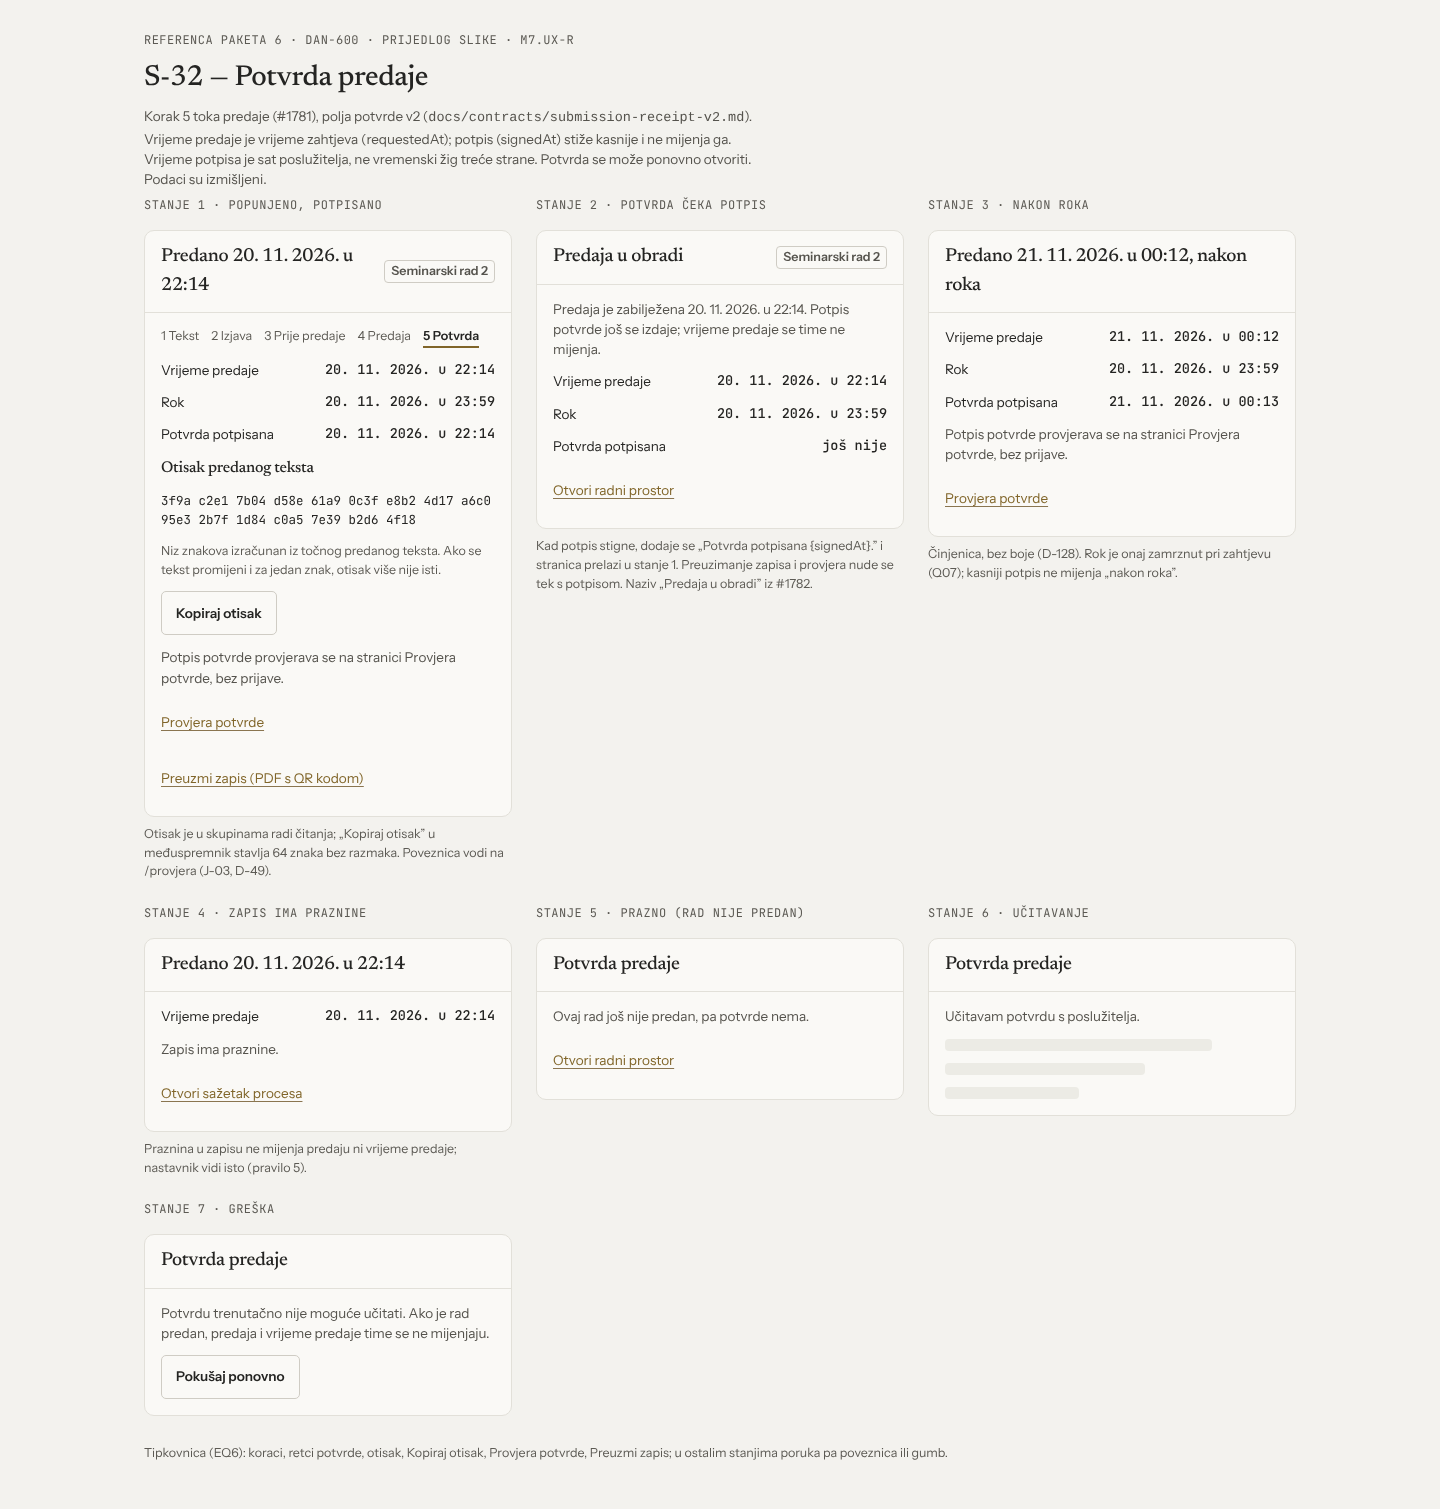
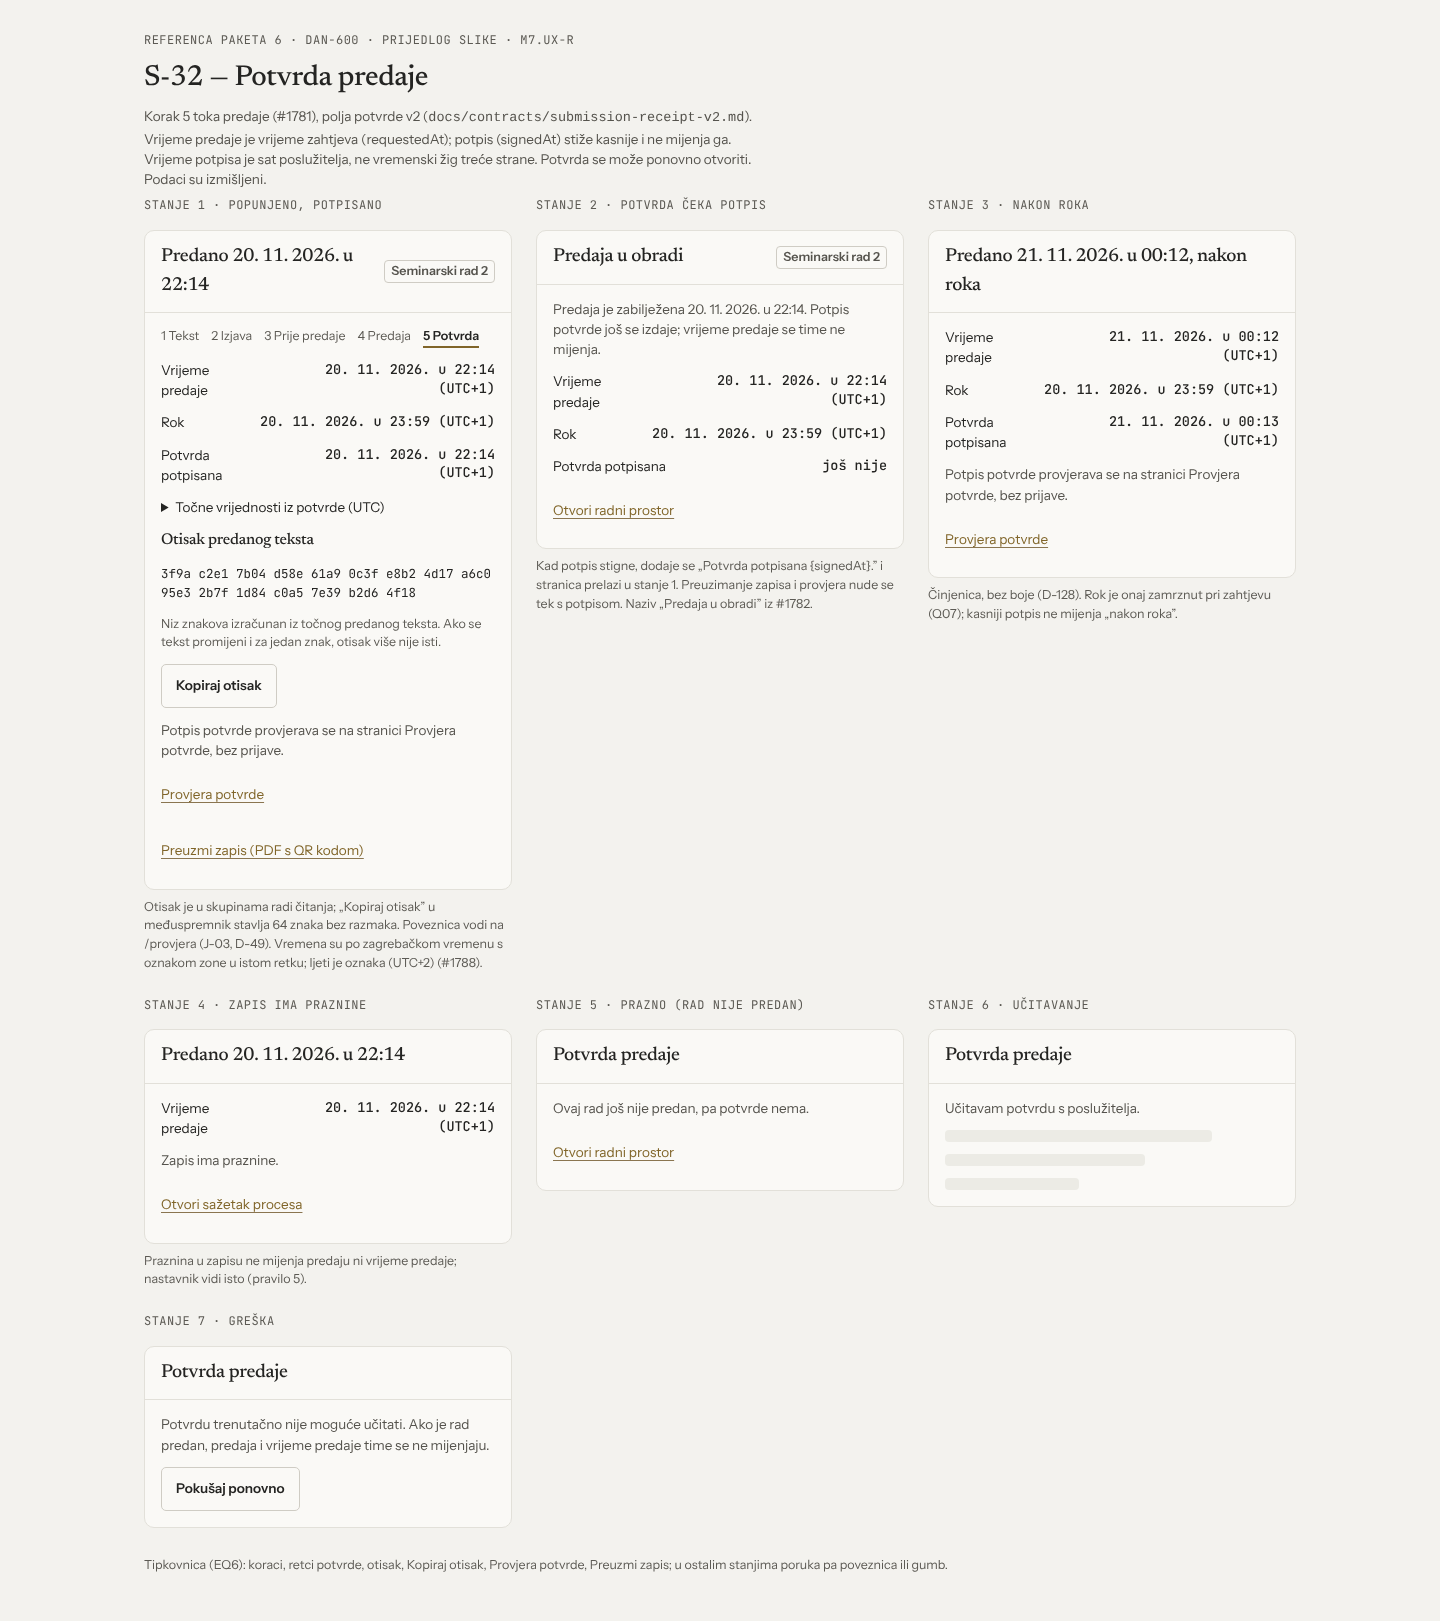
docs: m7 reference load error stays neutral, receipt times carry zone
S-30 load error no longer claims nothing was submitted (Codex). S-32
shows Zagreb time with a zone label and exact UTC values in details
(#1788, #1789); J-03 alignment stays open in the README.

Claude-Session: https://claude.ai/code/session_011GCKG9YKQ3fpNkYVrkXGih

diff --git a/docs/design/ductura/m7-reference/s32-potvrda-predaje.html b/docs/design/ductura/m7-reference/s32-potvrda-predaje.html
@@ -19,9 +19,10 @@
     <div class="panel"><div class="panel-top"><h2 id="p1">Predano 20. 11. 2026. u 22:14</h2><span class="tag">Seminarski rad 2</span></div>
       <div class="panel-body">
         <ol class="steps" aria-label="Koraci predaje"><li>1 Tekst</li><li>2 Izjava</li><li>3 Prije predaje</li><li>4 Predaja</li><li aria-current="step">5 Potvrda</li></ol>
-        <div class="kv"><span>Vrijeme predaje</span><b>20. 11. 2026. u 22:14</b></div>
-        <div class="kv"><span>Rok</span><b>20. 11. 2026. u 23:59</b></div>
-        <div class="kv"><span>Potvrda potpisana</span><b>20. 11. 2026. u 22:14</b></div>
+        <div class="kv"><span>Vrijeme predaje</span><b>20. 11. 2026. u 22:14 (UTC+1)</b></div>
+        <div class="kv"><span>Rok</span><b>20. 11. 2026. u 23:59 (UTC+1)</b></div>
+        <div class="kv"><span>Potvrda potpisana</span><b>20. 11. 2026. u 22:14 (UTC+1)</b></div>
+        <details><summary>Točne vrijednosti iz potvrde (UTC)</summary><p class="mono">requestedAt 2026-11-20T21:14:07Z<br>dueAt 2026-11-20T22:59:59Z<br>signedAt 2026-11-20T21:14:09Z</p></details>
         <h3>Otisak predanog teksta</h3>
         <p class="mono">3f9a c2e1 7b04 d58e 61a9 0c3f e8b2 4d17 a6c0 95e3 2b7f 1d84 c0a5 7e39 b2d6 4f18</p>
         <p class="meta">Niz znakova izračunan iz točnog predanog teksta. Ako se tekst promijeni i za jedan znak, otisak više nije isti.</p>
@@ -30,7 +31,7 @@
         <a href="#p1">Provjera potvrde</a>
         <a href="#p1">Preuzmi zapis (PDF s QR kodom)</a>
       </div></div>
-    <p class="meta">Otisak je u skupinama radi čitanja; „Kopiraj otisak” u međuspremnik stavlja 64 znaka bez razmaka. Poveznica vodi na /provjera (J-03, D-49).</p>
+    <p class="meta">Otisak je u skupinama radi čitanja; „Kopiraj otisak” u međuspremnik stavlja 64 znaka bez razmaka. Poveznica vodi na /provjera (J-03, D-49). Vremena su po zagrebačkom vremenu s oznakom zone u istom retku; ljeti je oznaka (UTC+2) (#1788).</p>
   </section>
 
   <section class="variant" aria-labelledby="p2">
@@ -38,8 +39,8 @@
     <div class="panel"><div class="panel-top"><h2 id="p2">Predaja u obradi</h2><span class="tag">Seminarski rad 2</span></div>
       <div class="panel-body">
         <p class="note" role="status">Predaja je zabilježena 20. 11. 2026. u 22:14. Potpis potvrde još se izdaje; vrijeme predaje se time ne mijenja.</p>
-        <div class="kv"><span>Vrijeme predaje</span><b>20. 11. 2026. u 22:14</b></div>
-        <div class="kv"><span>Rok</span><b>20. 11. 2026. u 23:59</b></div>
+        <div class="kv"><span>Vrijeme predaje</span><b>20. 11. 2026. u 22:14 (UTC+1)</b></div>
+        <div class="kv"><span>Rok</span><b>20. 11. 2026. u 23:59 (UTC+1)</b></div>
         <div class="kv"><span>Potvrda potpisana</span><b>još nije</b></div>
         <a href="#p2">Otvori radni prostor</a>
       </div></div>
@@ -50,9 +51,9 @@
     <div class="ref-tag">Stanje 3 · nakon roka</div>
     <div class="panel"><div class="panel-top"><h2 id="p3">Predano 21. 11. 2026. u 00:12, nakon roka</h2></div>
       <div class="panel-body">
-        <div class="kv"><span>Vrijeme predaje</span><b>21. 11. 2026. u 00:12</b></div>
-        <div class="kv"><span>Rok</span><b>20. 11. 2026. u 23:59</b></div>
-        <div class="kv"><span>Potvrda potpisana</span><b>21. 11. 2026. u 00:13</b></div>
+        <div class="kv"><span>Vrijeme predaje</span><b>21. 11. 2026. u 00:12 (UTC+1)</b></div>
+        <div class="kv"><span>Rok</span><b>20. 11. 2026. u 23:59 (UTC+1)</b></div>
+        <div class="kv"><span>Potvrda potpisana</span><b>21. 11. 2026. u 00:13 (UTC+1)</b></div>
         <p class="note">Potpis potvrde provjerava se na stranici Provjera potvrde, bez prijave.</p>
         <a href="#p3">Provjera potvrde</a>
       </div></div>
@@ -63,7 +64,7 @@
     <div class="ref-tag">Stanje 4 · zapis ima praznine</div>
     <div class="panel"><div class="panel-top"><h2 id="p4">Predano 20. 11. 2026. u 22:14</h2></div>
       <div class="panel-body">
-        <div class="kv"><span>Vrijeme predaje</span><b>20. 11. 2026. u 22:14</b></div>
+        <div class="kv"><span>Vrijeme predaje</span><b>20. 11. 2026. u 22:14 (UTC+1)</b></div>
         <p class="note">Zapis ima praznine.</p>
         <a href="#p4">Otvori sažetak procesa</a>
       </div></div>

diff --git a/docs/design/ductura/m7-reference/s30-pregled-prije-predaje.html b/docs/design/ductura/m7-reference/s30-pregled-prije-predaje.html
@@ -130,9 +130,10 @@
     <div class="ref-tag">Stanje 11 · greška učitavanja</div>
     <div class="panel"><div class="panel-top"><h2 id="p11">Predaja</h2></div>
       <div class="panel-body">
-        <p class="note" role="alert">Stanje rada trenutačno nije moguće učitati. Tekst rada nije zahvaćen i ništa nije predano.</p>
+        <p class="note" role="alert">Stanje rada trenutačno nije moguće učitati, pa se ne vidi je li rad predan. Tekst rada nije zahvaćen. Prije nove predaje pokušajte ponovno: ako je predaja zabilježena, ovdje će stajati potvrda.</p>
         <button class="btn secondary" type="button">Pokušaj ponovno</button>
       </div></div>
+    <p class="meta">Greška ne tvrdi da predaja postoji ili ne postoji (zahtjev je mogao stići bez odgovora, kao u stanju 9).</p>
   </section>
 
 </div>

diff --git a/docs/design/ductura/m7-reference/README.md b/docs/design/ductura/m7-reference/README.md
@@ -53,6 +53,7 @@ Svijetla ljuska je `data-theme="light"` na `<html>`. Kontrolni zbrojevi su u `SH
   - ishod nepoznat (`unavailable`).
 - Svako odbijanje kaže što student sada radi (#1780) i ne govori o studentu (pravilo 3).
 - `recordMismatch` vodi na zamjenski postupak. Kontakt je „Obratite se nastavniku kolegija”.
+- Greška učitavanja ne tvrdi da predaja postoji ili ne postoji. Traži ponovni pokušaj prije nove predaje.
 
 ### Izjava (S-31)
 
@@ -73,6 +74,7 @@ Svijetla ljuska je `data-theme="light"` na `<html>`. Kontrolni zbrojevi su u `SH
   - rok iz `dueAt`;
   - „nakon roka” iz `afterDeadline`;
   - vrijeme potpisa iz `signedAt`. Slika ga ne predstavlja kao vremenski žig treće strane.
+- Vremena su po zagrebačkom vremenu s oznakom zone u istom retku, „(UTC+1)”, ljeti „(UTC+2)” (prijedlog iz #1788). Točne vrijednosti iz potvrde u UTC-u su u pojedinostima.
 - „Otisak predanog teksta” ima 64 heksadekadske znamenke u skupinama radi čitanja, uz objašnjenje.
   - „Kopiraj otisak” u međuspremnik stavlja 64 znaka bez razmaka.
   - Poveznica „Provjera potvrde” vodi na `/provjera` (J-03, D-49), bez prijave.
@@ -89,6 +91,7 @@ Slika ova pitanja označava kao otvorena i ne odlučuje ih:
 - **Zaustavlja li išta predaju (D-129).** Dok FPZG to ne potvrdi, ništa ne zaustavlja.
 - **Kontakt zamjenskog postupka (Q-3).** To je parametar fakulteta. Do odgovora FPZG-a tekst je „Obratite se nastavniku kolegija”.
 - **Nazivi stanja (#1782).** „Predaja nije dovršena: zamjenski postupak” i „Predaja u obradi” preuzeti su iz prijedloga u #1782, koji još nije potvrđen.
+- **Zona vremena (#1788).** S-32 prikazuje zagrebačko vrijeme s oznakom zone. J-03 u `../m7-reference-c` prikazuje UTC. Usklađivanje J-03 je otvoreno.
 - **Naslov izjave.** #1783 predlaže „Izjava o korištenju generativne umjetne inteligencije”. `../m9-reference-b/s31-ai.html` koristi „Izjava o uporabi AI u predaji”. Usklađivanje je otvoreno.
 
 ## Nije nacrtano
